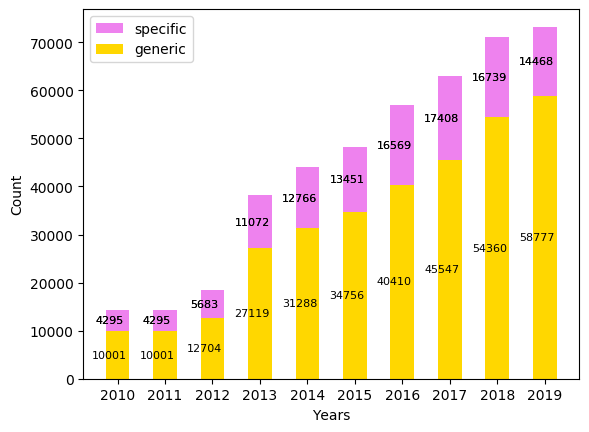
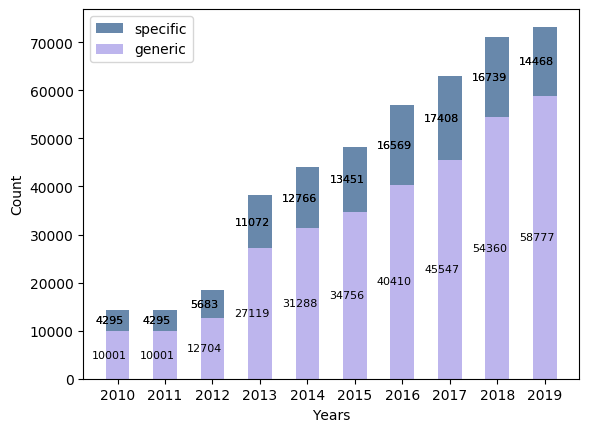
updates

diff --git a/gitStats/gitCommit.py b/gitStats/gitCommit.py
@@ -1,9 +1,10 @@
+import matplotlib
 import matplotlib.pyplot as plt
 
 # change input file to easyprivacy to obtain graph for easyprivacy
 def extract_data():
     result = {}
-    with open("1_easyprivacy_input.txt") as fi:
+    with open("1_easylist_input.txt") as fi:
         for line in fi:
             string = line
             line = line.split(' ')
@@ -24,6 +25,17 @@ def extract_data():
 
 # change savefig file to easyprivacy to obtain graph for easyprivacy
 def graph_plot(result):
+    font = {'family': 'Liberation Serif',
+            'weight': 'normal',
+            'size': 10
+            }
+
+    matplotlib.rcParams['axes.titlesize'] = 8
+    matplotlib.rcParams['axes.labelsize'] = 8
+    matplotlib.rc('font', **font)
+    # matplotlib.rcParams['text.usetex'] = True
+    matplotlib.rcParams['pdf.fonttype'] = 42
+    matplotlib.rcParams['pdf.use14corefonts'] = True
 
     x1 = []
     y1 = []
@@ -39,11 +51,11 @@ def graph_plot(result):
     plt.xlabel('Time')
     plt.xticks(x1, rotation='vertical',fontsize=7)
     plt.ylabel('Commit Count')
-    plt.title('Commit variations over time as split by month')
     plt.locator_params(axis='x', nbins=18)
 
     plt.legend()
-    plt.savefig('easyprivacy.png')
+    plt.tight_layout()
+    plt.savefig('easylist_gitStats.pdf', format='pdf', dpi=1200)
 
     # plt.show()
 

diff --git a/GraphCodes/EL-G6-specific-generic.py b/GraphCodes/EL-G6-specific-generic.py
@@ -185,7 +185,7 @@ def graph_gen(entry, years, specific, generic):
     specific = np.array(specific)
     generic = np.array(generic)
 
-    ax.bar(ticks, specific, width=0.5, label='specific', bottom=generic, color='violet')
+    ax.bar(ticks, specific, width=0.5, label='specific', bottom=generic, color='#6888AB')
 
     for p in ax.patches:
         width, height = p.get_width(), p.get_height()
@@ -197,7 +197,7 @@ def graph_gen(entry, years, specific, generic):
                 horizontalalignment='center',
                 verticalalignment='center')
 
-    ax.bar(ticks, generic, width=0.5, label='generic', color='gold')
+    ax.bar(ticks, generic, width=0.5, label='generic', color='#BDB5ED')
 
     for p in ax.patches:
         width, height = p.get_width(), p.get_height()

diff --git a/GraphCodes/EP-G6-specific-generic.py b/GraphCodes/EP-G6-specific-generic.py
@@ -185,7 +185,7 @@ def graph_gen(entry, years, specific, generic):
     specific = np.array(specific)
     generic = np.array(generic)
 
-    ax.bar(ticks, specific, width=0.5, label='specific', bottom=generic, color='violet')
+    ax.bar(ticks, specific, width=0.5, label='specific', bottom=generic, color='#6888AB')
 
     for p in ax.patches:
         width, height = p.get_width(), p.get_height()
@@ -197,7 +197,7 @@ def graph_gen(entry, years, specific, generic):
                 horizontalalignment='center',
                 verticalalignment='center')
 
-    ax.bar(ticks, generic, width=0.5, label='generic', color='gold')
+    ax.bar(ticks, generic, width=0.5, label='generic', color='#BDB5ED')
 
     for p in ax.patches:
         width, height = p.get_width(), p.get_height()
